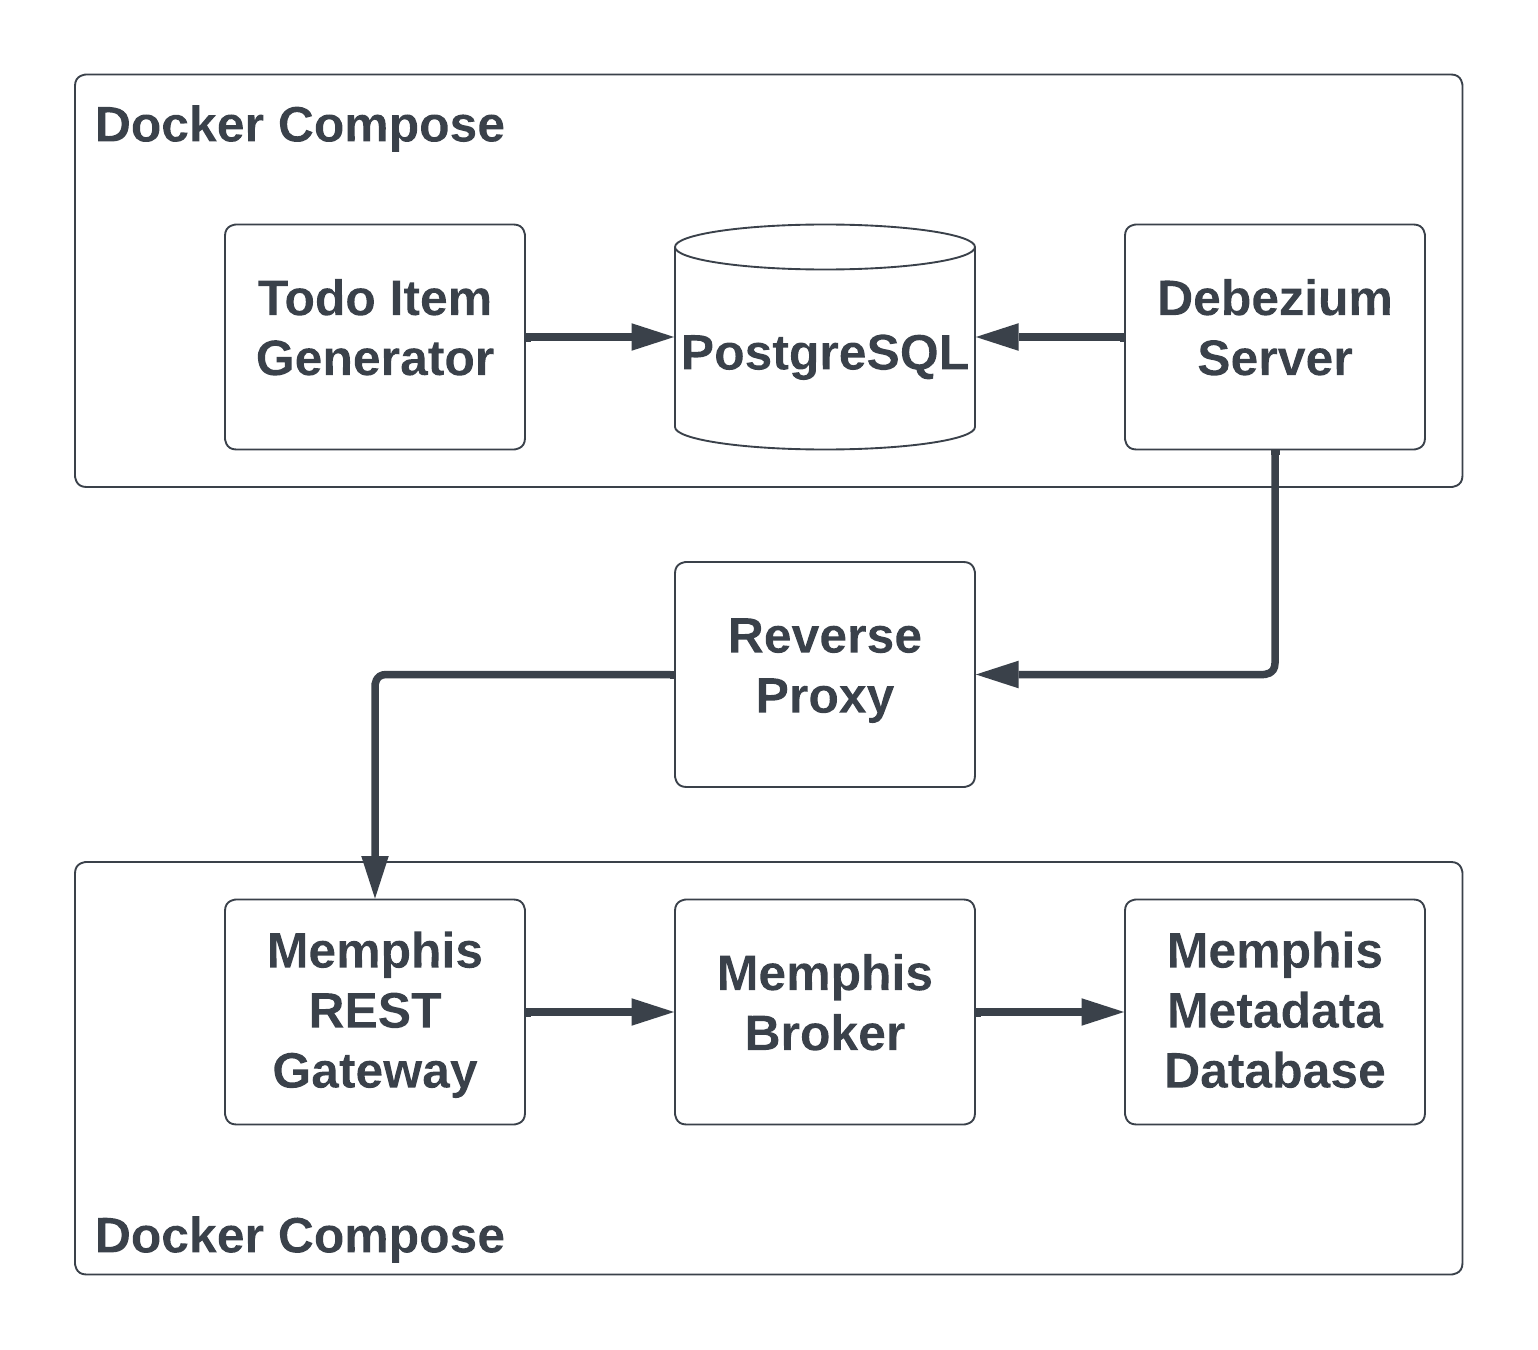
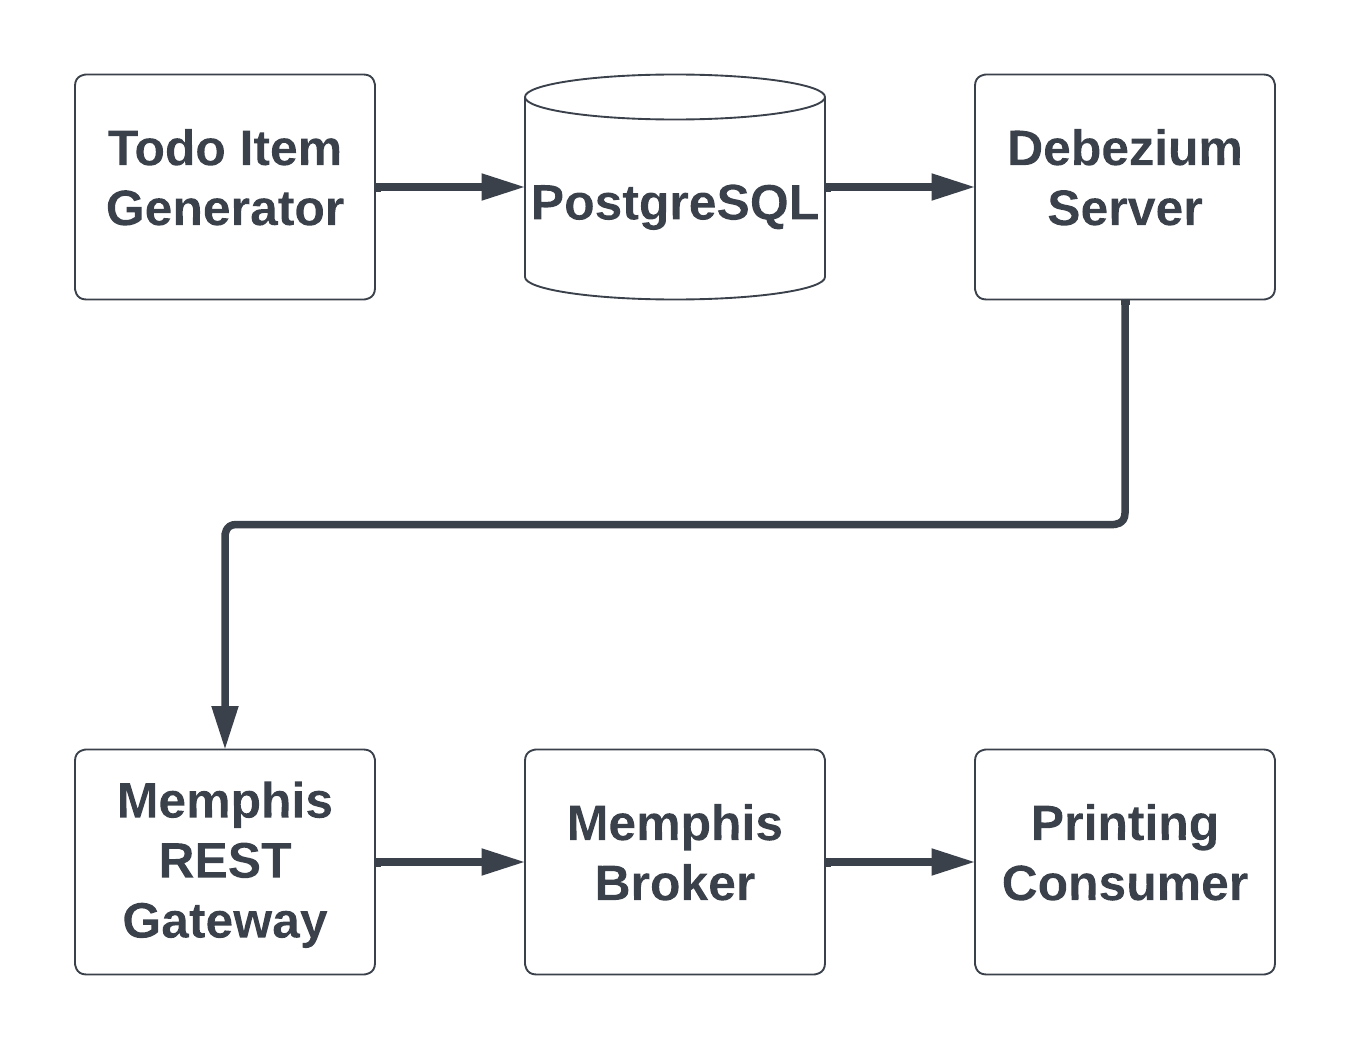
Incorporate Debezium Server with JWT authentication

diff --git a/postgres-debezium-cdc-example/printing-consumer/test_consumer.py b/postgres-debezium-cdc-example/printing-consumer/test_consumer.py
@@ -1,11 +1,13 @@
 from __future__ import annotations
 import asyncio
+import os
+
 from memphis import Memphis, MemphisError, MemphisConnectError, MemphisHeaderError
 
-STATION = "todo-cdc-events"
-USERNAME = "todocdcservice"
-PASSWORD = "todocdcservice"
-HOST = "localhost"
+STATION_KEY = "MEMPHIS_STATION"
+USERNAME_KEY = "MEMPHIS_USERNAME"
+PASSWORD_KEY = "MEMPHIS_PASSWORD"
+HOST_KEY = "MEMPHIS_HOST"
         
 async def main():
     async def msg_handler(msgs, error, context):
@@ -23,9 +25,11 @@ async def main():
     try:
         print("Waiting on messages...")
         memphis = Memphis()
-        await memphis.connect(host=HOST, username=USERNAME, password=PASSWORD)
+        await memphis.connect(host=os.environ[HOST_KEY],
+                              username=os.environ[USERNAME_KEY],
+                              password=os.environ[PASSWORD_KEY])
         
-        consumer = await memphis.consumer(station_name=STATION, consumer_name="test-consumer", consumer_group="")
+        consumer = await memphis.consumer(station_name=os.environ[STATION_KEY], consumer_name="printing-consumer", consumer_group="")
         consumer.consume(msg_handler)
         # Keep your main thread alive so the consumer will keep receiving data
         await asyncio.Event().wait()
@@ -37,4 +41,9 @@ async def main():
         await memphis.close()
         
 if __name__ == '__main__':
+    for key in [HOST_KEY, USERNAME_KEY, PASSWORD_KEY, STATION_KEY]:
+        if key not in os.environ:
+            logging.error("Expected environmental variable {} not set".format(key))
+            sys.exit(1)    
+
     asyncio.run(main())

diff --git a/postgres-debezium-cdc-example/README.md b/postgres-debezium-cdc-example/README.md
@@ -32,8 +32,15 @@ that prints the events to the console.  A diagram of the architecture is provide
 
 ## Steps for Running the Example
 
-1. [Start and configure Memphis.dev](docs/setup_memphis.md)
-1. [Start the reverse proxy](docs/run_reverse_proxy.md)
-1. [Start test consumer](docs/run_test_consumer.md)
-1. [Start CDC services](docs/run_cdc_services.md)
-1. [Inspect the logs](docs/inspect_logs.md)
+1. Build the Docker images:
+   `docker compose build --pull`
+1. Start Memphis.dev:
+   `docker compose up -d memphis-rest-gateway`
+1. [Configure Memphis.dev](setup_memphis.md)
+1. Start the printing consumer:
+   `docker compose up -d printing-consumer`
+1. Start the todo generator, PostgreSQL database, and Debezium Server:
+   `docker compose up -d todo-generator`
+1. Check the container statuses (`docker ps`), Memphis.dev station overview, and [Docker logs](docs/inspect_logs.md) to confirm it works
+
+Note: We currently build our own Docker image for Debezium Server from the main branch because JWT authentication (see [this PR](https://github.com/debezium/debezium-server/pull/20)) is not yet available in a released version.
